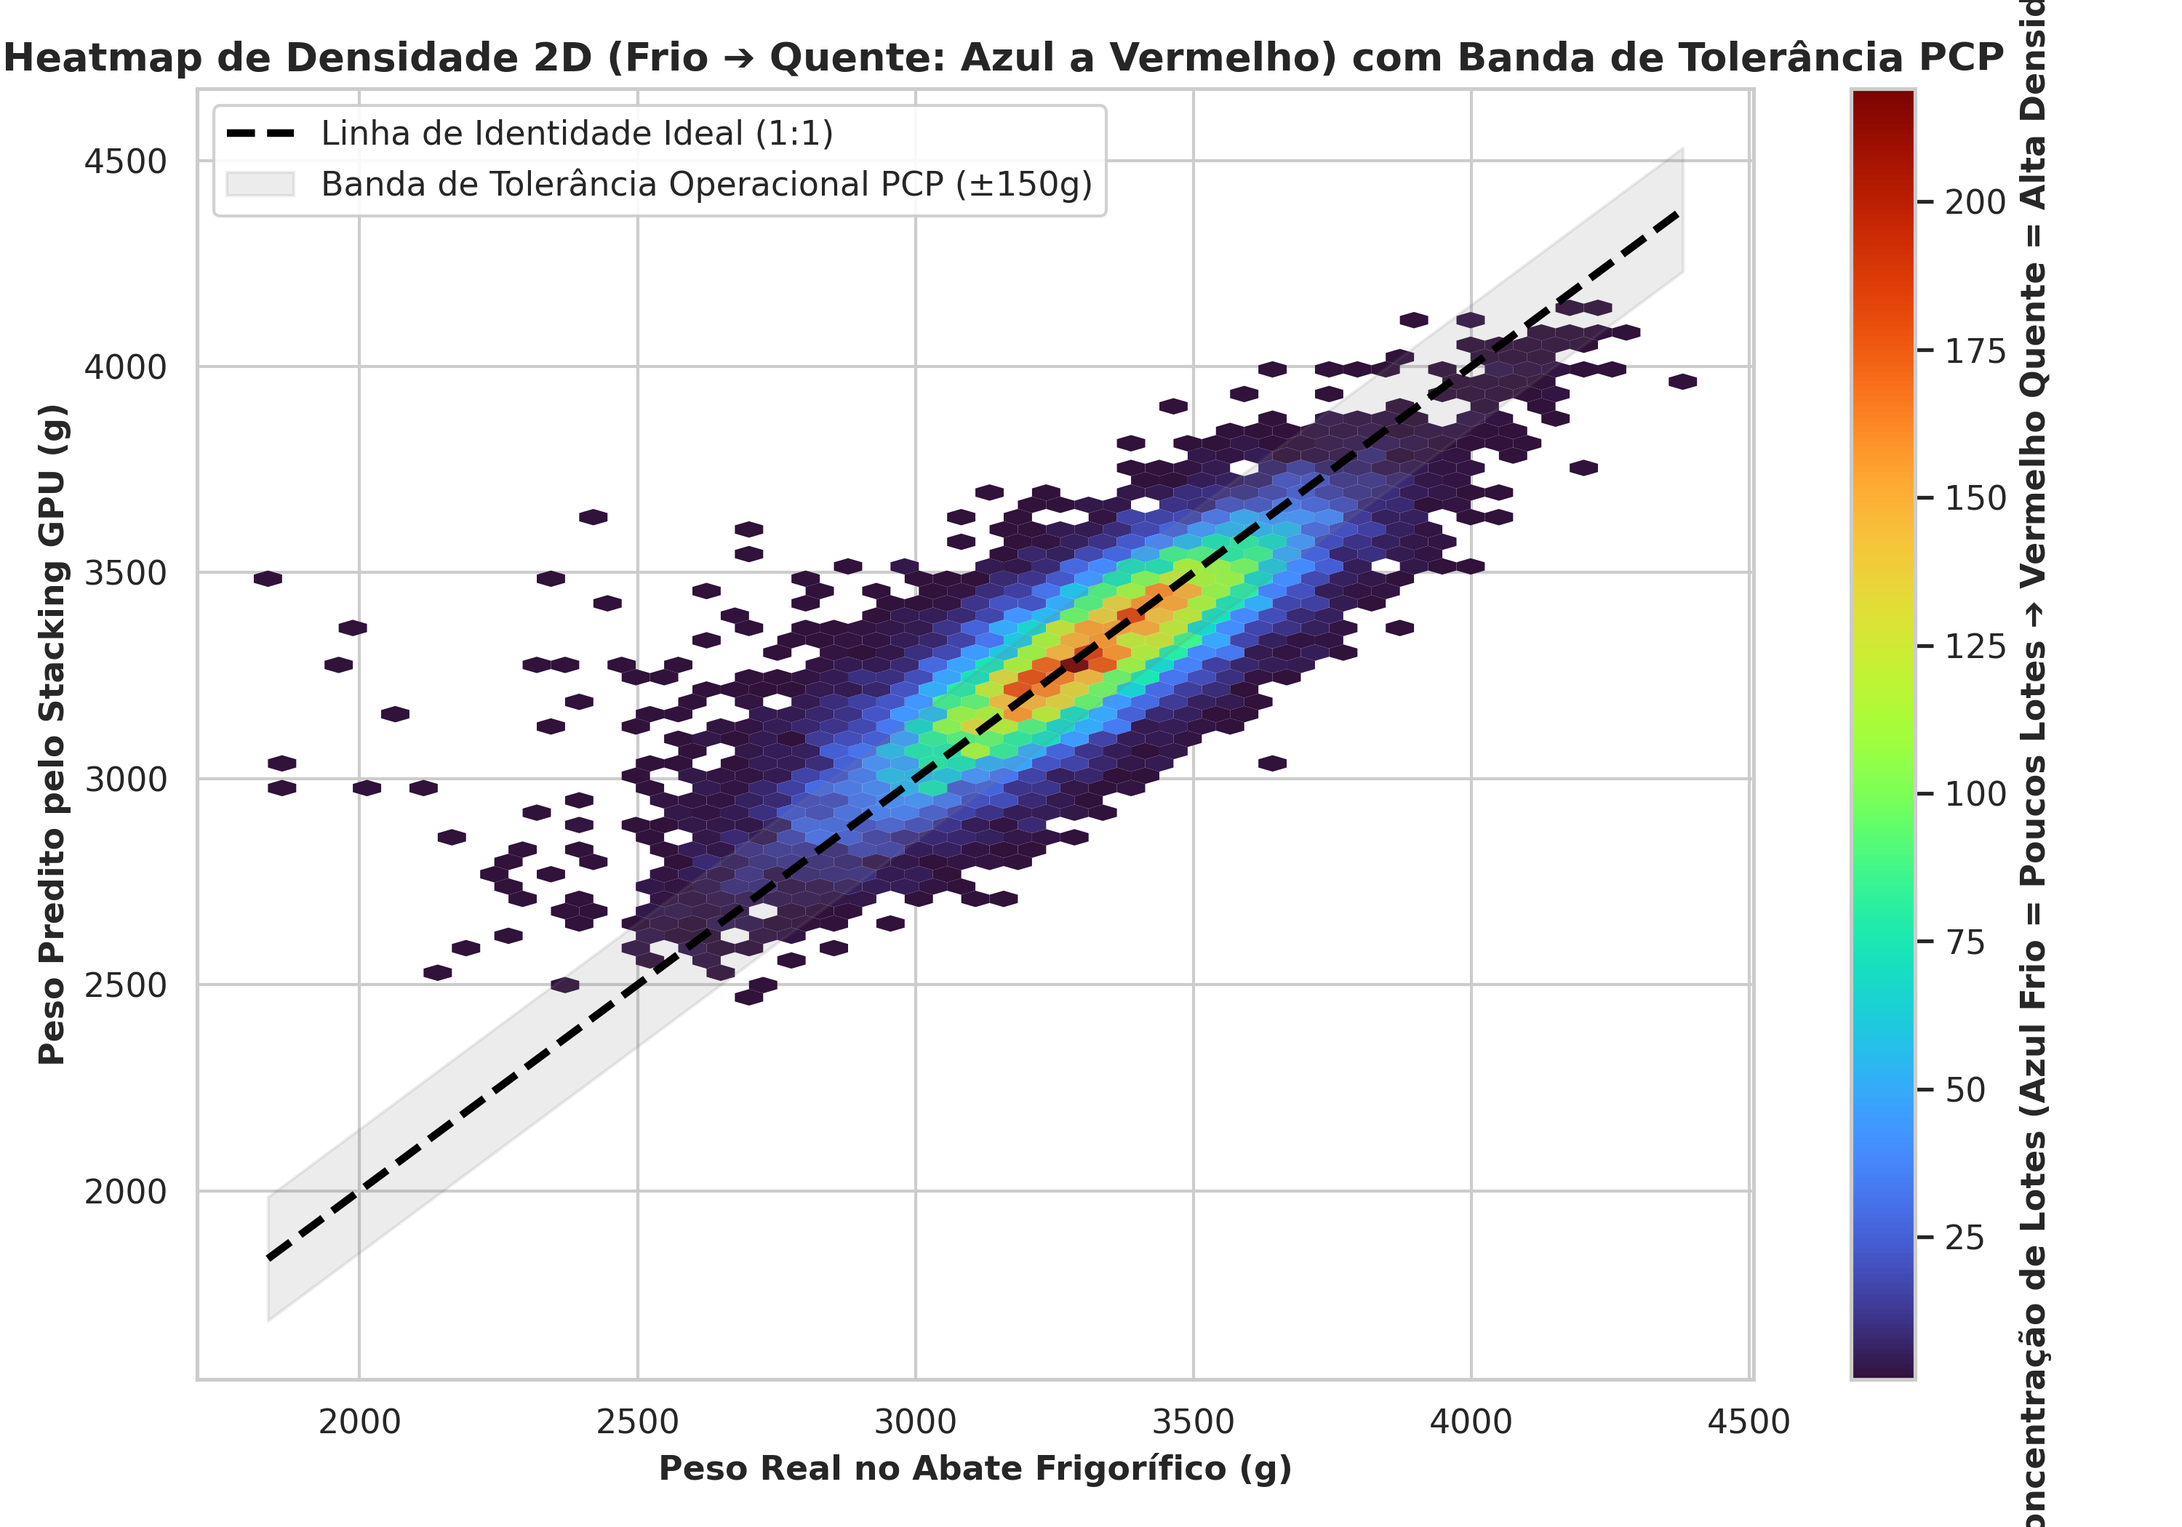
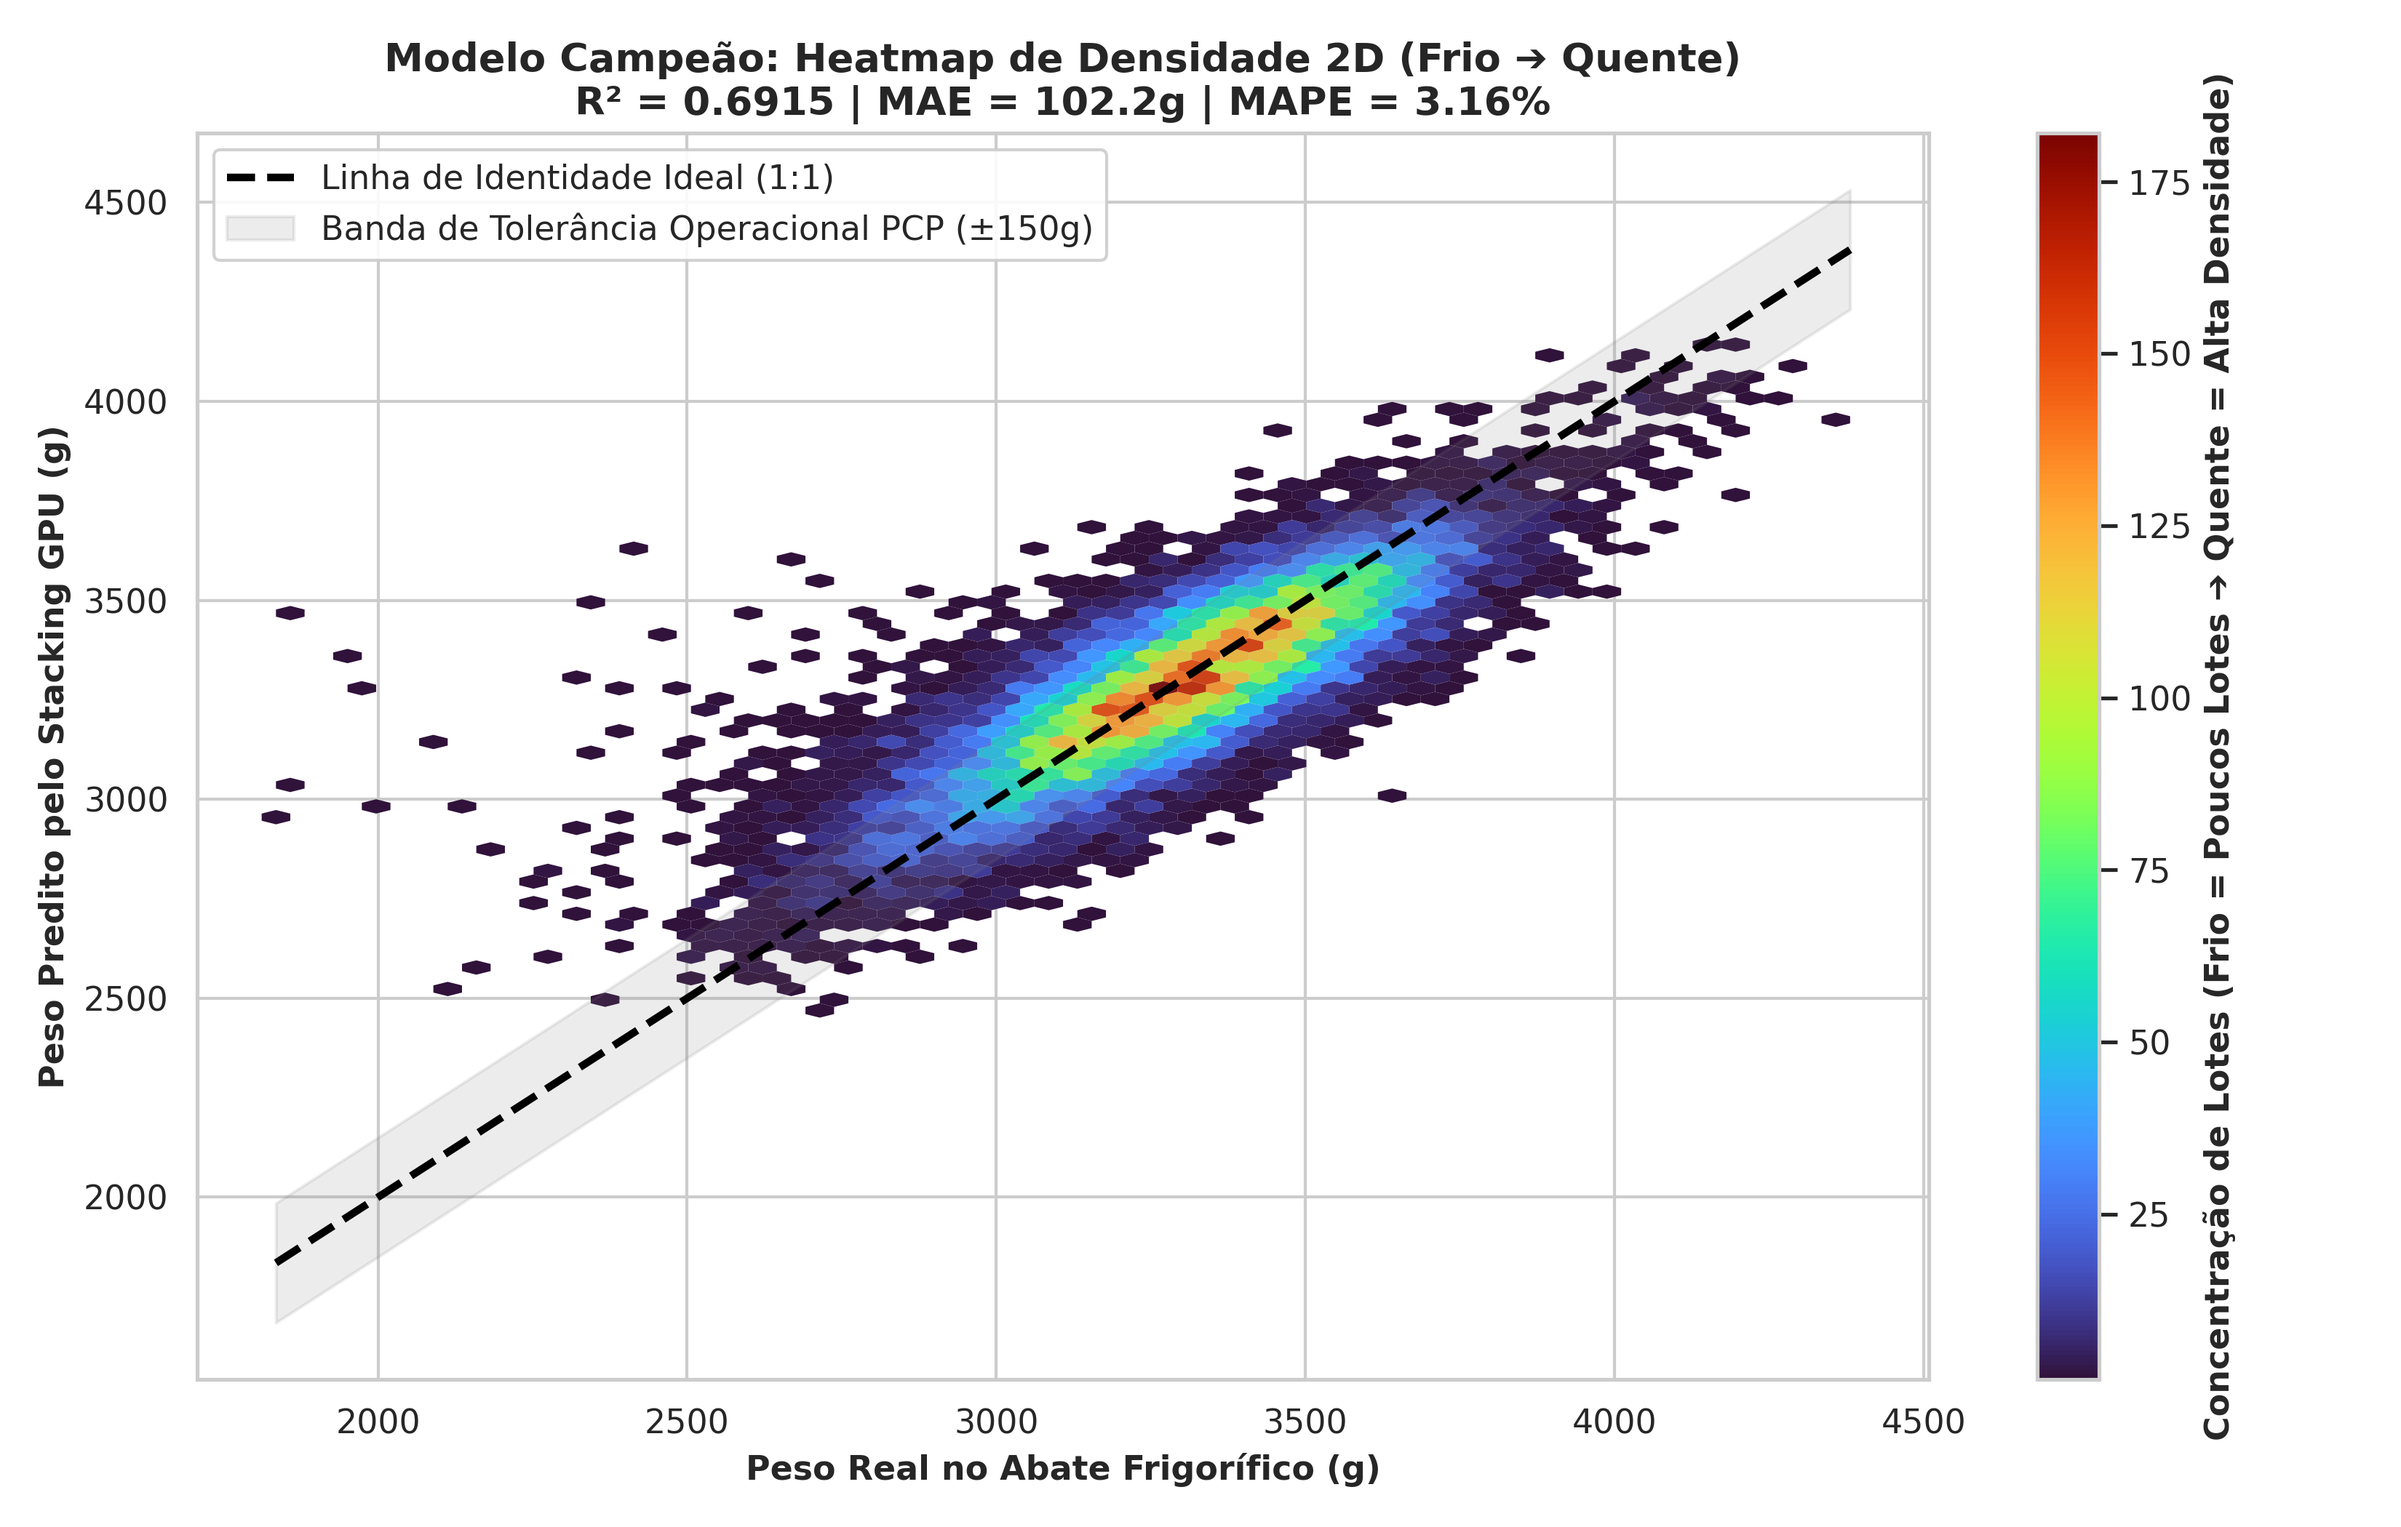
style(plots): sincroniza o codigo do plot E3 para ser 100% identico a celula do notebook

diff --git a/src/models/generate_complete_plot_suite.py b/src/models/generate_complete_plot_suite.py
@@ -199,16 +199,22 @@ def generate_plot_suite():
     plt.savefig(STAT_DIR / "02_qq_plot_normalidade_residuos.png", dpi=300)
     plt.close()
     
-    # Plot E3: Heatmap de Densidade 2D (Hexbin) + Linha de Identidade 1:1 (Frio para Quente)
-    plt.figure(figsize=(10, 7))
-    hb = plt.hexbin(y, oof_preds, gridsize=50, cmap='turbo', mincnt=1, edgecolors='none')
+    # Plot E3: Heatmap de Densidade 2D (Hexbin) + Linha de Identidade 1:1 (Frio para Quente - Identico ao Notebook)
+    plt.figure(figsize=(11, 7))
+    # Paleta Frio para Quente ('turbo' / 'coolwarm')
+    hb = plt.hexbin(y, oof_preds, gridsize=55, cmap='turbo', mincnt=1, edgecolors='none')
     cb = plt.colorbar(hb)
-    cb.set_label('Concentração de Lotes (Azul Frio = Poucos Lotes ➔ Vermelho Quente = Alta Densidade)', fontsize=11, fontweight='bold')
-    
+    cb.set_label('Concentração de Lotes (Frio = Poucos Lotes ➔ Quente = Alta Densidade)', fontsize=11, fontweight='bold')
+
+    r2_global = r2_score(y, oof_preds)
+    mae_global = mean_absolute_error(y, oof_preds)
+    mape_global = np.mean(np.abs((y - oof_preds) / y)) * 100.0
+
     min_v, max_v = min(y.min(), oof_preds.min()), max(y.max(), oof_preds.max())
     plt.plot([min_v, max_v], [min_v, max_v], color='black', linestyle='--', linewidth=2.5, label='Linha de Identidade Ideal (1:1)')
     plt.fill_between([min_v, max_v], [min_v - 150, max_v - 150], [min_v + 150, max_v + 150], color='gray', alpha=0.15, label='Banda de Tolerância Operacional PCP (±150g)')
-    plt.title('3. Heatmap de Densidade 2D (Frio ➔ Quente: Azul a Vermelho) com Banda de Tolerância PCP', fontsize=13, fontweight='bold')
+
+    plt.title(f'Modelo Campeão: Heatmap de Densidade 2D (Frio ➔ Quente)\nR² = {r2_global:.4f} | MAE = {mae_global:.1f}g | MAPE = {mape_global:.2f}%', fontsize=13, fontweight='bold')
     plt.xlabel('Peso Real no Abate Frigorífico (g)', fontsize=11, fontweight='bold')
     plt.ylabel('Peso Predito pelo Stacking GPU (g)', fontsize=11, fontweight='bold')
     plt.legend(loc='upper left', frameon=True, facecolor='white', framealpha=0.9)
